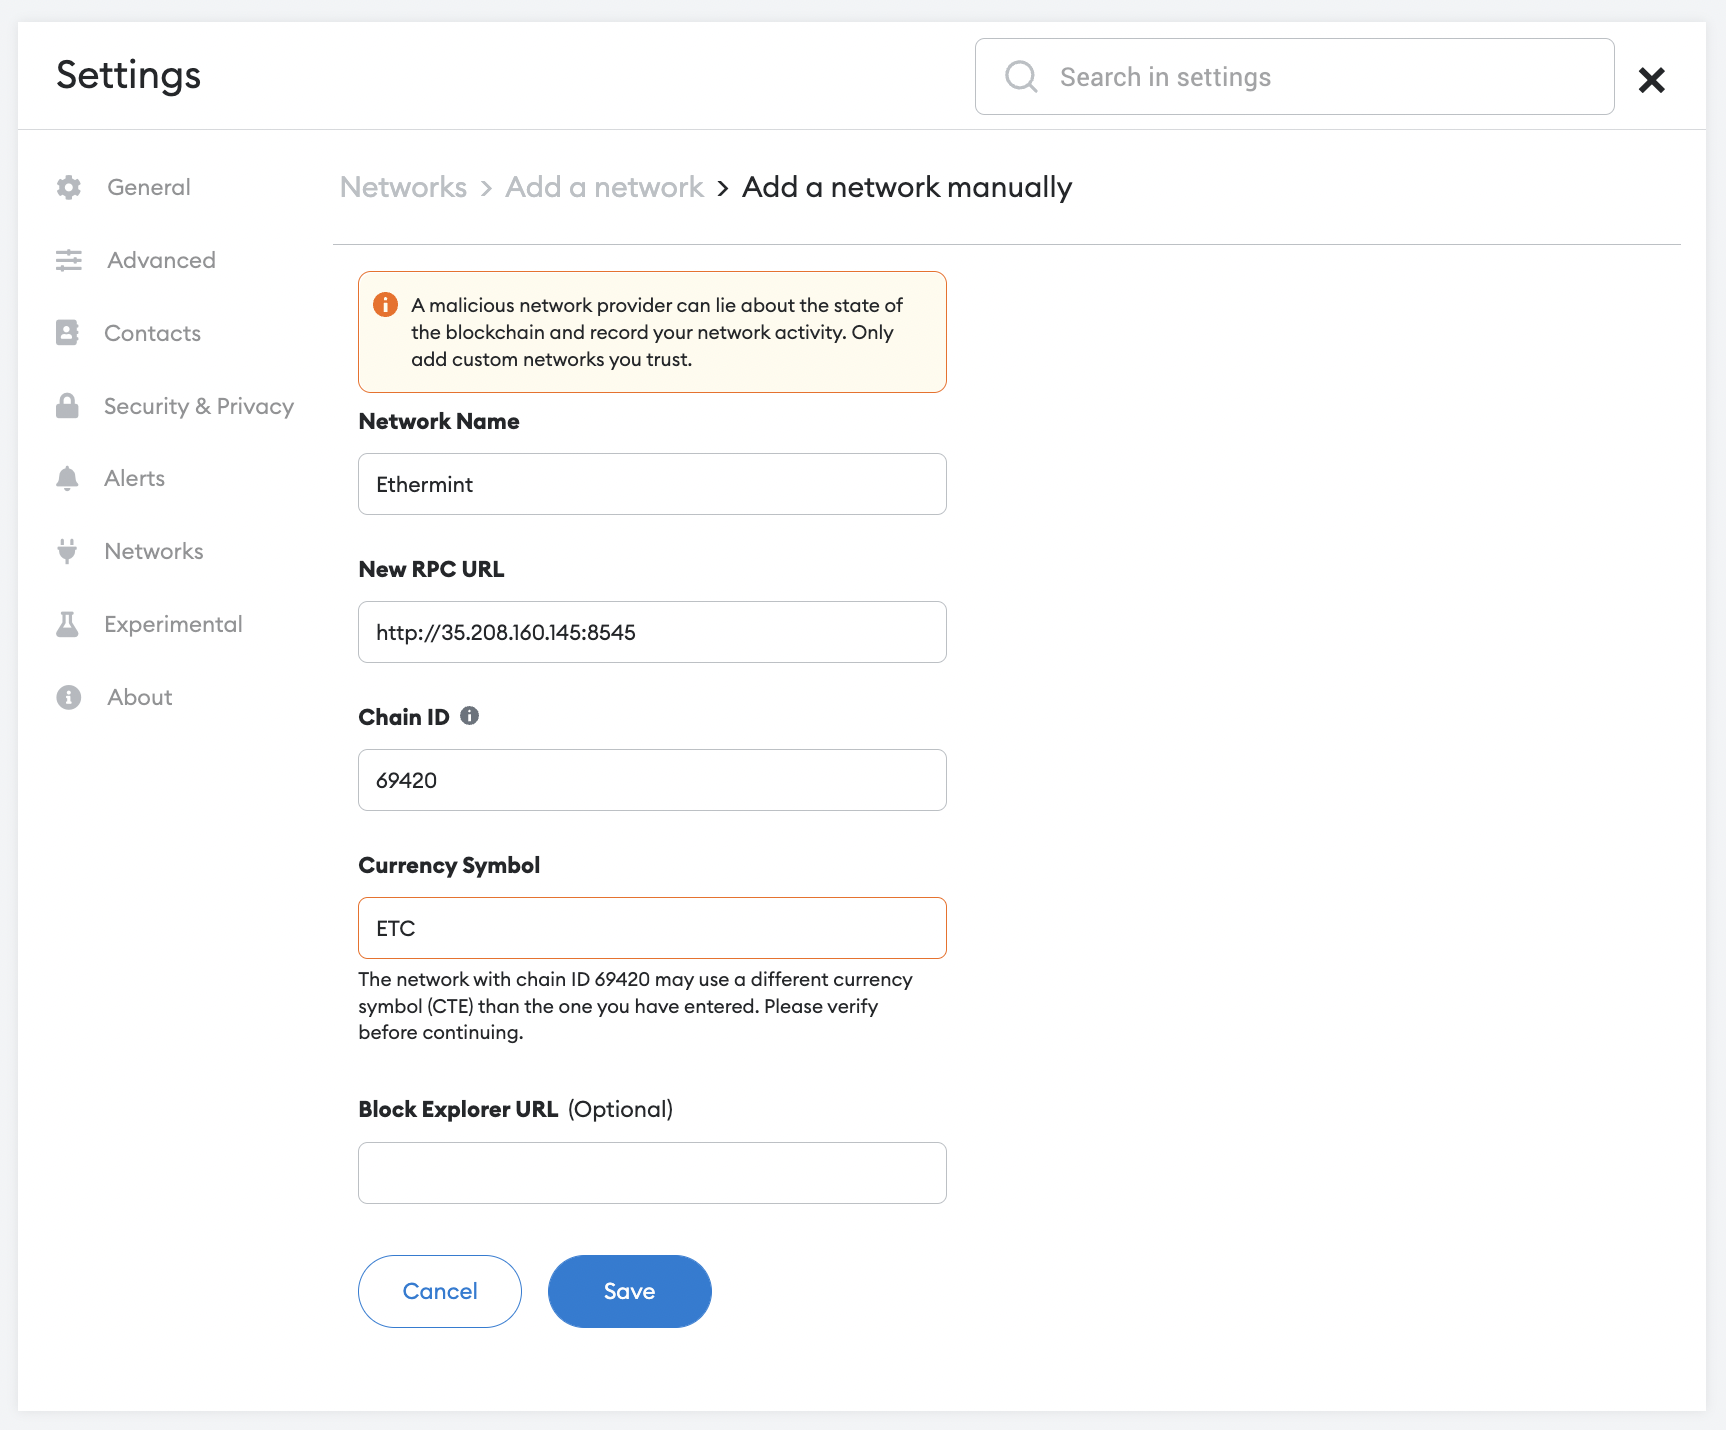
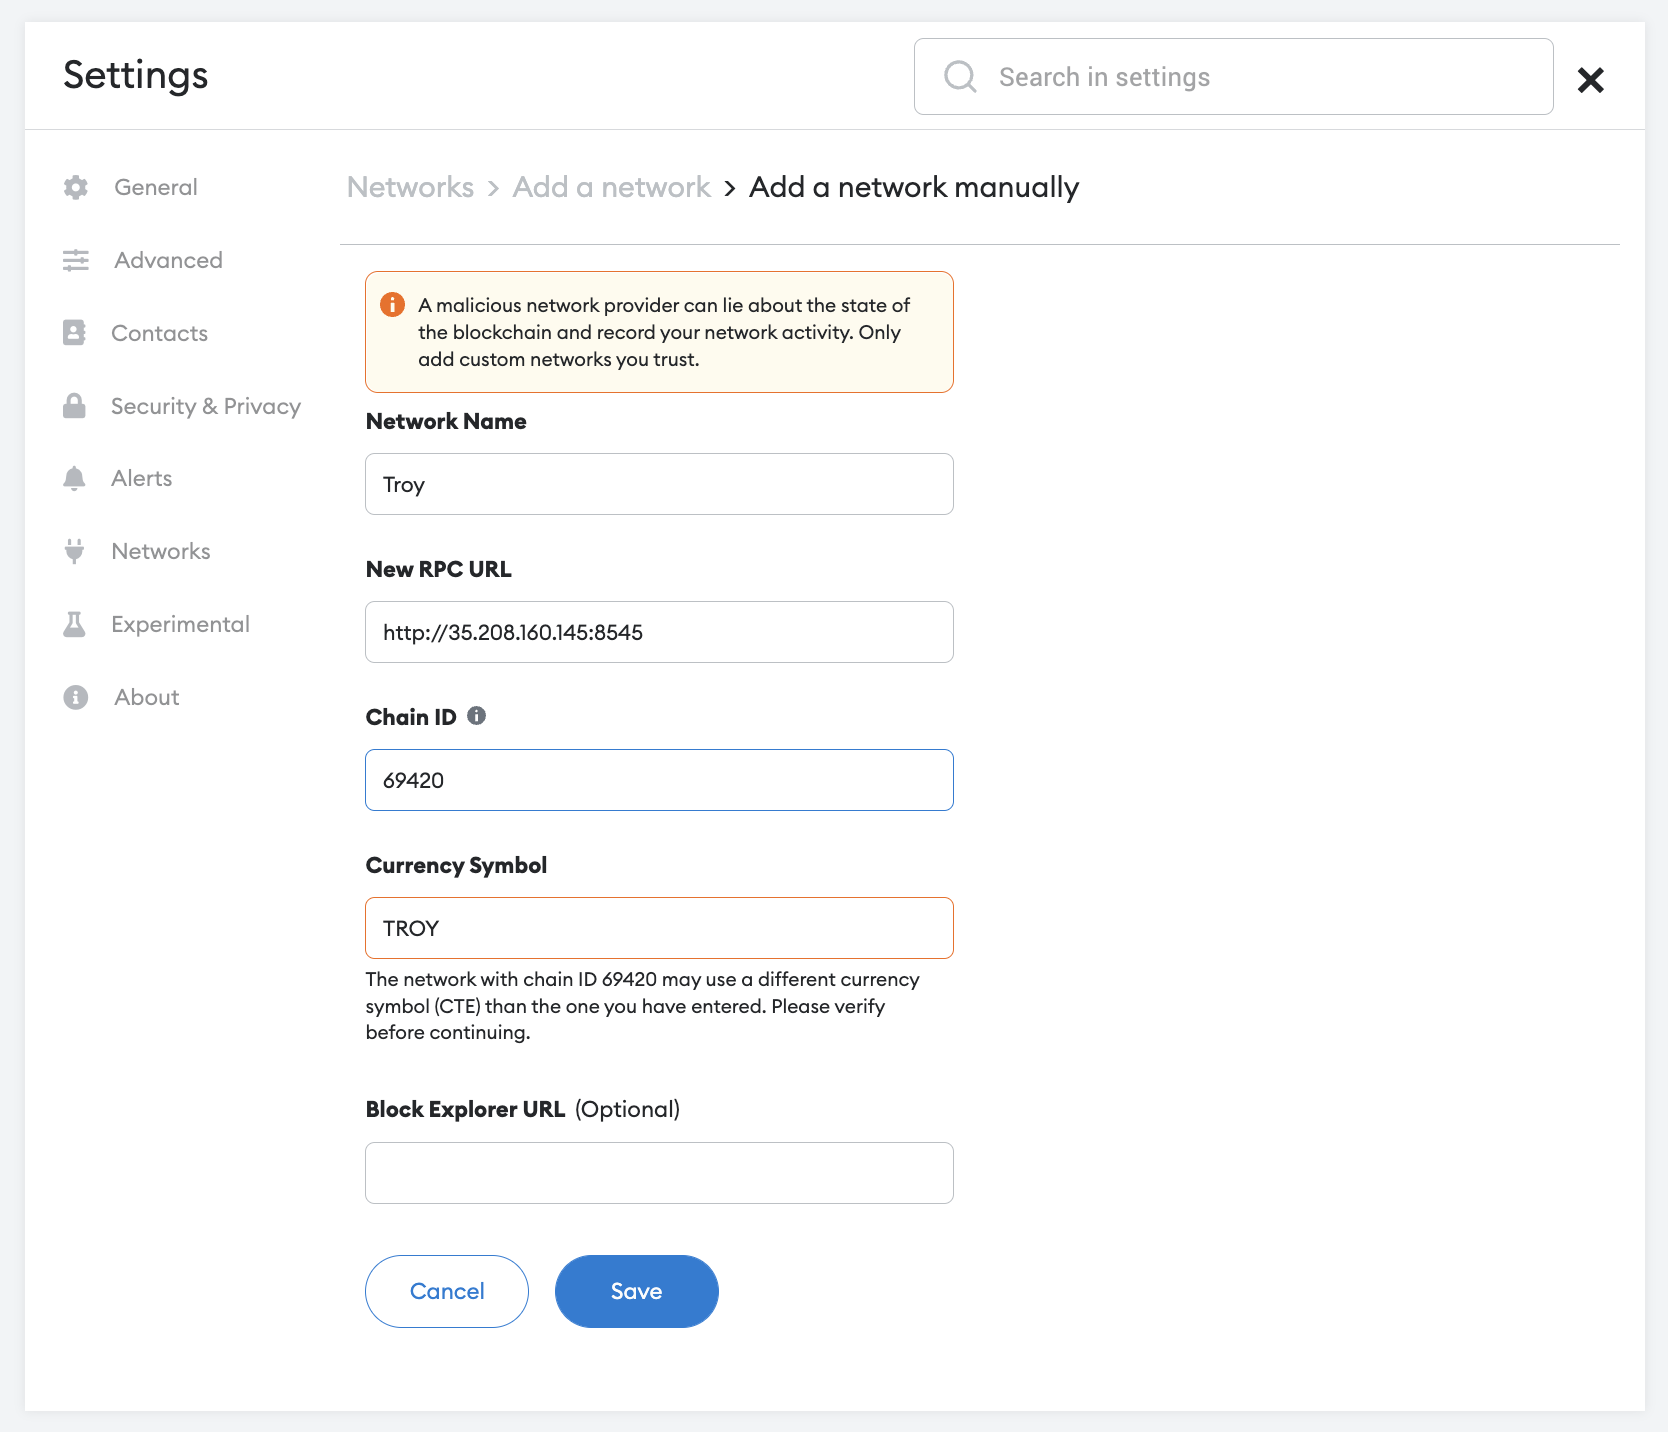
updated network details to Troy

diff --git a/docs/developers/connecting-to-troy.md b/docs/developers/connecting-to-troy.md
@@ -15,7 +15,7 @@ First, open the MetaMask settings and choose "Add Network"
 
 Next, enter the settings as follows:
 
-__Network name__: Troy on Celestia
+__Network name__: Troy
 
 __RPC URL__: `http://35.208.160.145:8545`
 
